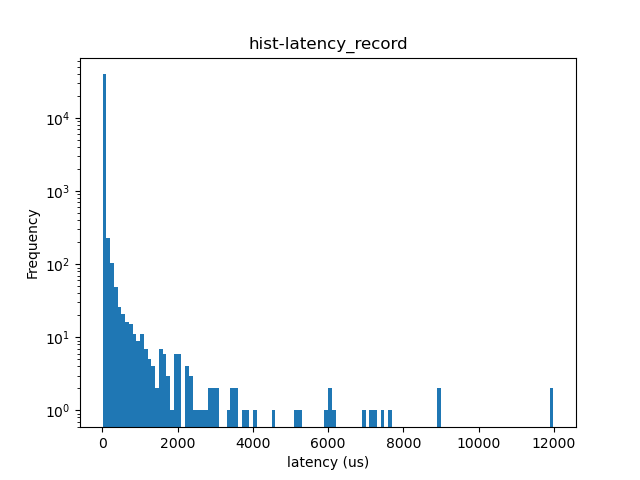
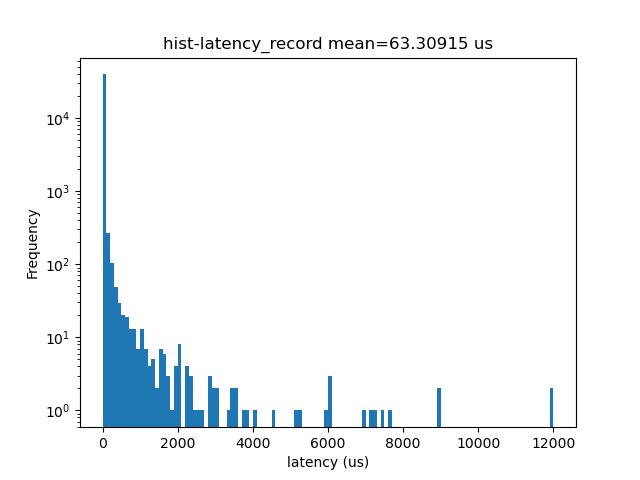
fix graph

diff --git a/rpi-rt/utils/latency/analyze.py b/rpi-rt/utils/latency/analyze.py
@@ -2,7 +2,6 @@ import pandas as pd
 import os
 import re
 import matplotlib.pyplot as plt
-import subprocess
 
 record = []
 
@@ -19,6 +18,6 @@ with open(os.path.join(os.path.dirname(__file__), f"{target}.txt")) as reader:
             pass
 s = pd.Series(record)
 df = pd.DataFrame({"latency": s})
-df["latency"].plot(kind="hist",bins = 120, logy=True , xlabel="latency (us)" , title=f"hist-{target}").get_figure().savefig(
+df["latency"].plot(kind="hist", range= [0 , 12000] , bins = 120, logy=True , xlabel="latency (us)" , title=f"hist-{target} mean={df['latency'].mean()} us").get_figure().savefig(
     os.path.join(os.path.dirname(__file__), f"hist-{target}.png")
 )
